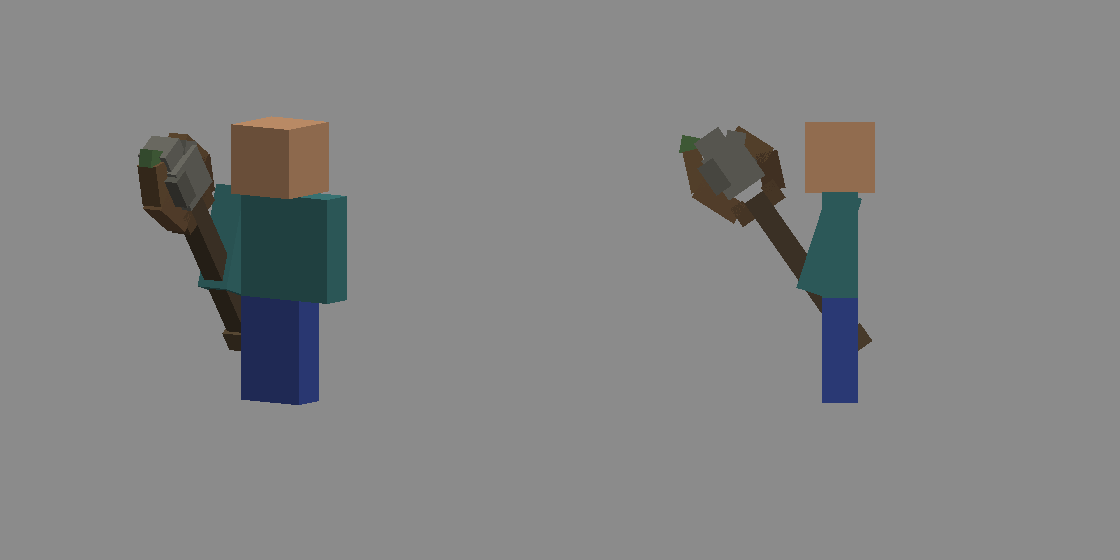
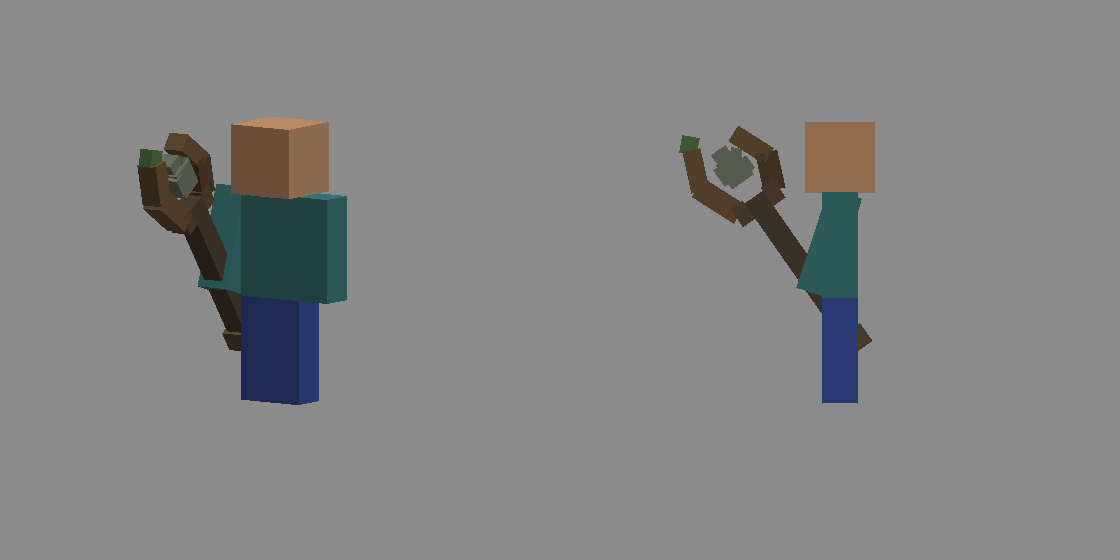
FluxDungeons: smaller stone floating in the roots of the druid's staff

Changed region(s): [[0.625, 0.2125, 0.6875, 0.3643], [0.125, 0.2429, 0.1875, 0.3946]]

diff --git a/FluxDungeons/assets/armes/gen_armes.py b/FluxDungeons/assets/armes/gen_armes.py
@@ -474,16 +474,15 @@ def tison_soleil():
 
 
 def coeur_de_sylve():
-    """Druid's staff, 36 units tall like the cryomancer's: a raw grey rock held in a fork of two roots which grow
+    """Druid's staff, 36 units tall like the cryomancer's: a small old stone floating in a fork of two roots which grow
     outwards then back over it, one shoot at the tip of the longer root, nothing floating, nothing glowing."""
     w = Weapon("coeur_de_sylve", "Cœur-de-Sylve", "Druide",
                "Grand bâton à deux mains : manche de bois ancien vivant, pied évasé comme une racine épaisse ; au "
-               "sommet, une roche brute et grise, faite de blocs inégaux, prise dans la fourche de deux racines qui partent vers l'extérieur "
+               "sommet, une petite pierre ancienne faite de blocs inégaux, en lévitation dans la fourche de deux racines qui partent vers l'extérieur "
                "puis reviennent sur elle (la gauche plus longue, la droite plus sombre et plus courte), une seule "
                "jeune pousse au bout de la racine gauche, deux excroissances de racine à la jonction du manche.",
                {"bois_vivant": ("#514333", "Bois ancien vivant", False), "pied": ("#62503A", "Pied de racine", False),
-                "pierre": ("#77766D", "Roche brute", False), "pierre_sombre": ("#626158", "Roche à l'ombre", False),
-                "racine_claire": ("#70543A", "Racine de gauche", False),
+                "pierre": ("#747C6C", "Pierre ancienne", False), "racine_claire": ("#70543A", "Racine de gauche", False),
                 "racine_sombre": ("#59432F", "Racine de droite", False), "branche": ("#72573A", "Ramifications", False),
                 "pousse": ("#55794A", "Jeune pousse", False), "excroissance": ("#604A34", "Excroissances de racine", False)})
 
@@ -507,20 +506,14 @@ def coeur_de_sylve():
             return shadow if y % 6 == 4 else base
         return pixel
 
-    def rough_stone(base, light, pale, shade, deep):
-        # raw rock: an uneven pale patch where the light falls, an uneven dark one low on the right, a few grains,
-        # one short fracture; no band, no line a metal engraving could have
-        def pixel(x, y):
-            if (x, y) in ((1, 0), (2, 0), (0, 1), (1, 1), (0, 2), (3, 0)):
-                return pale if (x, y) in ((1, 0), (0, 1)) else light
-            if y >= 6 and x >= 1 or (x, y) in ((4, 5), (5, 4), (5, 5), (6, 5)):
-                return deep if y >= 7 and x >= 3 else shade
-            if (x, y) in ((3, 2), (3, 3), (4, 4)):
-                return shade
-            if (5 * x + 3 * y) % 11 == 0:
-                return light
-            return base
-        return pixel
+    def old_stone(x, y):
+        # the first painting of the stone, which the owner preferred: a pale band where the light falls, the body,
+        # shade below and on the right; its greens pulled towards stone grey and mineral beige
+        if y == 0 and x < 5 or x == 0 and y < 3 or (x, y) in ((2, 2), (3, 2)):
+            return "#A8A98B"
+        if y >= 6 or x >= 5 and y >= 3 or (x, y) == (3, 5):
+            return "#474E43"
+        return "#747C6C"
 
     def shoot(x, y):
         return "#8DA86A" if x + y <= 1 else ("#36533A" if x + y >= 3 else "#55794A")
@@ -528,9 +521,7 @@ def coeur_de_sylve():
     def foot(x, y):
         return "#3C3328" if y >= 2 or x >= 3 else "#62503A"
 
-    w.painted = {"bois_vivant": living_wood, "pied": foot, "pousse": shoot,
-                 "pierre": rough_stone("#77766D", "#989589", "#AAA18B", "#626158", "#48483F"),
-                 "pierre_sombre": rough_stone("#626158", "#77766D", "#989589", "#48483F", "#393A34"),
+    w.painted = {"bois_vivant": living_wood, "pied": foot, "pousse": shoot, "pierre": old_stone,
                  "racine_claire": fibre("#70543A", "#98764D", "#514333"), "racine_sombre": fibre("#59432F", "#826548", "#352B25"),
                  "branche": fibre("#72573A", "#98764D", "#514333"), "excroissance": fibre("#604A34", "#80694A", "#352B25")}
     w.group("pied")
@@ -543,12 +534,17 @@ def coeur_de_sylve():
     w.box("excroissance_g", [4.5, 10.5, 6.5], [6.5, 13.5, 9.5], "excroissance", note="porte la racine de gauche")
     w.box("excroissance_d", [9.5, 10.5, 6.5], [11.5, 13.5, 9.5], "excroissance", note="porte la racine de droite")
     w.group("pierre")
-    # A raw rock, not a slab: blocks of different sizes, deeper than the roots that hold it, one broken corner.
-    w.box("roche", [5, 14.5, 5], [11, 21, 11], "pierre", note="masse principale, 6 x 6,5 x 6")
-    w.box("roche_sommet", [5.5, 20, 5.5], [9.5, 23.5, 10], "pierre", note="bloc du haut, décalé vers la gauche et l'avant")
-    w.box("roche_epaule", [9.5, 15.5, 4.5], [12, 19, 9], "pierre_sombre", note="bloc bas à droite, sort vers l'avant")
-    w.box("roche_eclat", [4, 16, 7.5], [6.5, 20.5, 11.5], "pierre_sombre", note="bloc à gauche, sort vers l'arrière")
-    w.c("roche_angle", [10.3, 20.6, 8], [2.6, 2.6, 4.5], "pierre", ("z", 45), "angle cassé en haut à droite")
+    # A small old stone floating in the fork of the roots: the five uneven blocks of the raw rock, shrunk around
+    # their middle until a gap shows all round, clear of the shaft and of the roots (which did not move).
+    k, mid, at = 0.6, (8.0, 19.0, 8.0), (8.0, 18.2, 8.0)
+    place = lambda p: [at[i] + (p[i] - mid[i]) * k for i in range(3)]
+    for name, f, t, note in (
+            ("roche", [5, 14.5, 5], [11, 21, 11], "masse principale"),
+            ("roche_sommet", [5.5, 20, 5.5], [9.5, 23.5, 10], "bloc du haut, décalé vers la gauche et l'avant"),
+            ("roche_epaule", [9.5, 15.5, 4.5], [12, 19, 9], "bloc bas à droite, sort vers l'avant"),
+            ("roche_eclat", [4, 16, 7.5], [6.5, 20.5, 11.5], "bloc à gauche, sort vers l'arrière")):
+        w.box(name, place(f), place(t), "pierre", note=note)
+    w.c("roche_angle", place([10.3, 20.6, 8]), [2.6 * k, 2.6 * k, 4.5 * k], "pierre", ("z", 45), "angle cassé en haut à droite")
     w.group("racines")
     end = w.seg("racine_g", (5.0, 12.5), 22.5, 6.0, 3.0, 3.0, "racine_claire", note="part vers l'extérieur")
     end = w.seg("ramification_g", end, -22.5, 5.0, 2.5, 3.0, "branche", note="revient sur la pierre")

diff --git a/FluxDungeons/assets/armes/FICHES.md b/FluxDungeons/assets/armes/FICHES.md
@@ -453,13 +453,13 @@ Affichages (`display` du modèle) :
 
 ## Cœur-de-Sylve (Druide) : `fluxdungeons:coeur_de_sylve`
 
-Grand bâton à deux mains : manche de bois ancien vivant, pied évasé comme une racine épaisse ; au sommet, une roche brute et grise, faite de blocs inégaux, prise dans la fourche de deux racines qui partent vers l'extérieur puis reviennent sur elle (la gauche plus longue, la droite plus sombre et plus courte), une seule jeune pousse au bout de la racine gauche, deux excroissances de racine à la jonction du manche.
+Grand bâton à deux mains : manche de bois ancien vivant, pied évasé comme une racine épaisse ; au sommet, une petite pierre ancienne faite de blocs inégaux, en lévitation dans la fourche de deux racines qui partent vers l'extérieur puis reviennent sur elle (la gauche plus longue, la droite plus sombre et plus courte), une seule jeune pousse au bout de la racine gauche, deux excroissances de racine à la jonction du manche.
 
 | Dimension | Valeur |
 |---|---|
 | Longueur (Y) | 37.36 (de -12 à 25.36) |
 | Largeur max (X) | 13.058 (de 1.184 à 14.242) |
-| Épaisseur max (Z) | 7 |
+| Épaisseur max (Z) | 4.2 |
 | Prise (point tenu par le poing) | (8, -0.5, 8) |
 | Centre visuel (milieu de l'encombrement) | (7.713, 6.68, 8) |
 | Longueur en main, 3e personne | 31.756 px de joueur (joueur = 32) |
@@ -471,8 +471,7 @@ Palette :
 |---|---|---|
 | `bois_vivant` | Bois ancien vivant `#514333` |  |
 | `pied` | Pied de racine `#62503A` |  |
-| `pierre` | Roche brute `#77766D` |  |
-| `pierre_sombre` | Roche à l'ombre `#626158` |  |
+| `pierre` | Pierre ancienne `#747C6C` |  |
 | `racine_claire` | Racine de gauche `#70543A` |  |
 | `racine_sombre` | Racine de droite `#59432F` |  |
 | `branche` | Ramifications `#72573A` |  |
@@ -488,11 +487,11 @@ Hiérarchie (groupes, dans l'ordre de construction) : `pied` (1), `manche` (2), 
 | 3 | manche | `manche_haut` | 6.5 2 6.5 | 9.5 13 9.5 | 3 × 11 × 3 |  | `bois_vivant` |  |
 | 4 | excroissances | `excroissance_g` | 4.5 10.5 6.5 | 6.5 13.5 9.5 | 2 × 3 × 3 |  | `excroissance` | porte la racine de gauche |
 | 5 | excroissances | `excroissance_d` | 9.5 10.5 6.5 | 11.5 13.5 9.5 | 2 × 3 × 3 |  | `excroissance` | porte la racine de droite |
-| 6 | pierre | `roche` | 5 14.5 5 | 11 21 11 | 6 × 6.5 × 6 |  | `pierre` | masse principale, 6 x 6,5 x 6 |
-| 7 | pierre | `roche_sommet` | 5.5 20 5.5 | 9.5 23.5 10 | 4 × 3.5 × 4.5 |  | `pierre` | bloc du haut, décalé vers la gauche et l'avant |
-| 8 | pierre | `roche_epaule` | 9.5 15.5 4.5 | 12 19 9 | 2.5 × 3.5 × 4.5 |  | `pierre_sombre` | bloc bas à droite, sort vers l'avant |
-| 9 | pierre | `roche_eclat` | 4 16 7.5 | 6.5 20.5 11.5 | 2.5 × 4.5 × 4 |  | `pierre_sombre` | bloc à gauche, sort vers l'arrière |
-| 10 | pierre | `roche_angle` | 9 19.3 5.75 | 11.6 21.9 10.25 | 2.6 × 2.6 × 4.5 | Z 45° autour de (10.3, 20.6, 8) | `pierre` | angle cassé en haut à droite |
+| 6 | pierre | `roche` | 6.2 15.5 6.2 | 9.8 19.4 9.8 | 3.6 × 3.9 × 3.6 |  | `pierre` | masse principale |
+| 7 | pierre | `roche_sommet` | 6.5 18.8 6.5 | 8.9 20.9 9.2 | 2.4 × 2.1 × 2.7 |  | `pierre` | bloc du haut, décalé vers la gauche et l'avant |
+| 8 | pierre | `roche_epaule` | 8.9 16.1 5.9 | 10.4 18.2 8.6 | 1.5 × 2.1 × 2.7 |  | `pierre` | bloc bas à droite, sort vers l'avant |
+| 9 | pierre | `roche_eclat` | 5.6 16.4 7.7 | 7.1 19.1 10.1 | 1.5 × 2.7 × 2.4 |  | `pierre` | bloc à gauche, sort vers l'arrière |
+| 10 | pierre | `roche_angle` | 8.6 18.38 6.65 | 10.16 19.94 9.35 | 1.56 × 1.56 × 2.7 | Z 45° autour de (9.38, 19.16, 8) | `pierre` | angle cassé en haut à droite |
 | 11 | racines | `racine_g` | 2.352 11.922 6.5 | 5.352 18.622 9.5 | 3 × 6.7 × 3 | Z 22.5° autour de (3.852, 15.272, 8) | `racine_claire` | part vers l'extérieur |
 | 12 | racines | `ramification_g` | 2.411 17.503 6.5 | 4.911 23.203 9.5 | 2.5 × 5.7 × 3 | Z -22.5° autour de (3.661, 20.353, 8) | `branche` | revient sur la pierre |
 | 13 | racines | `pousse` | 3.717 22.463 7 | 6.117 24.863 9 | 2.4 × 2.4 × 2 | Z 45° autour de (4.917, 23.663, 8) | `pousse` | seule jeune pousse, au bout de la racine gauche |
